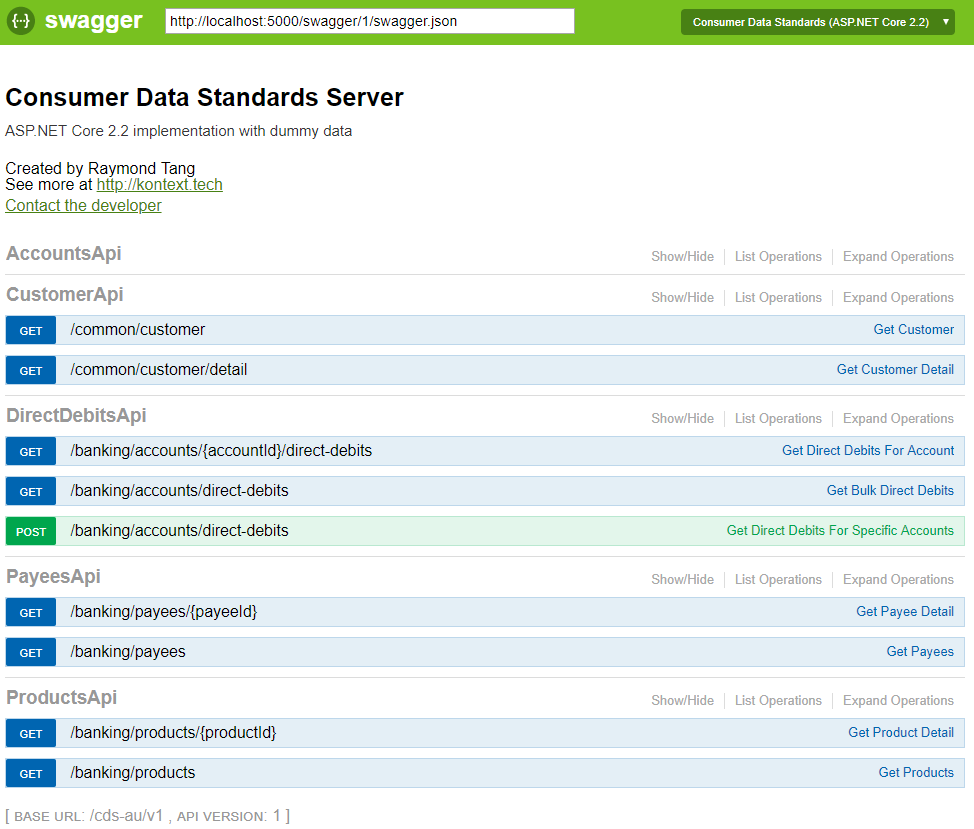
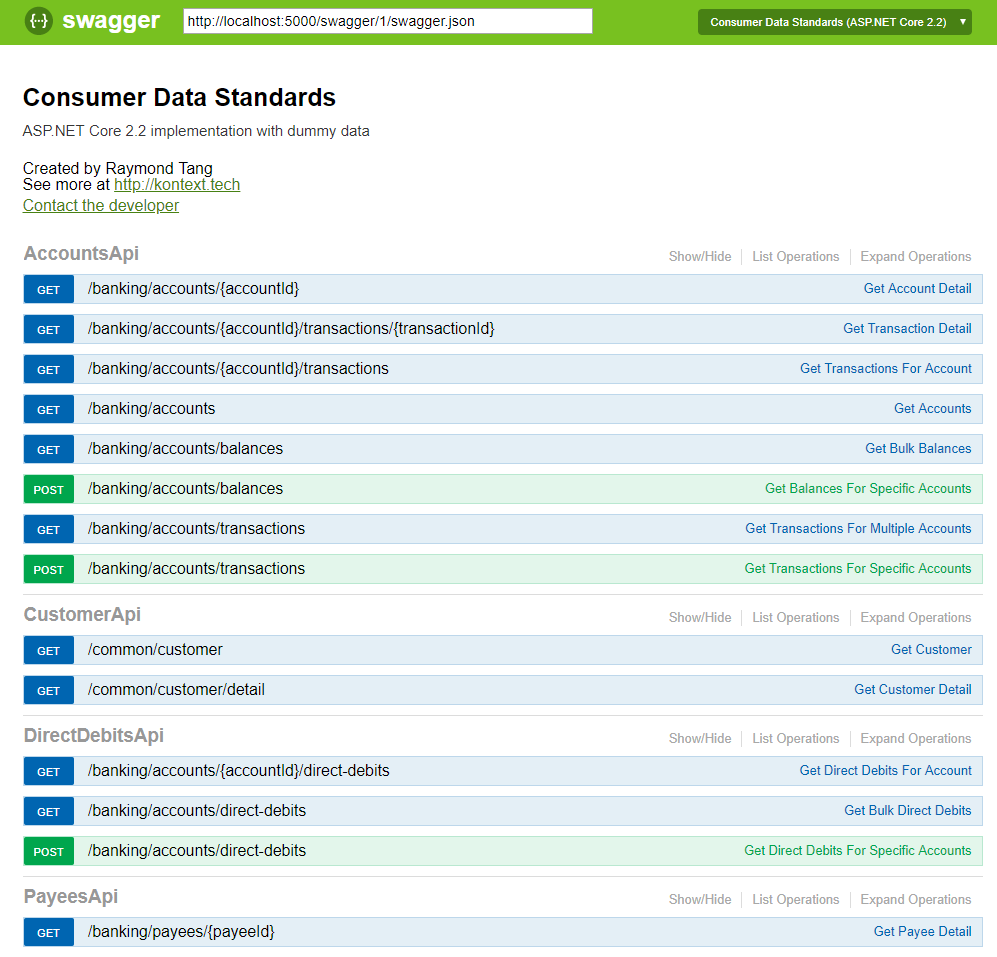
Updated api title and screenshot

diff --git a/src/ConsumerDataStandards/Startup.cs b/src/ConsumerDataStandards/Startup.cs
@@ -67,7 +67,7 @@ namespace ConsumerDataStandards
                     c.SwaggerDoc("1", new Info
                     {
                         Version = "1",
-                        Title = "Consumer Data Standards Server",
+                        Title = "Consumer Data Standards",
                         Description = "ASP.NET Core 2.2 implementation with dummy data",
                         Contact = new Contact()
                         {
